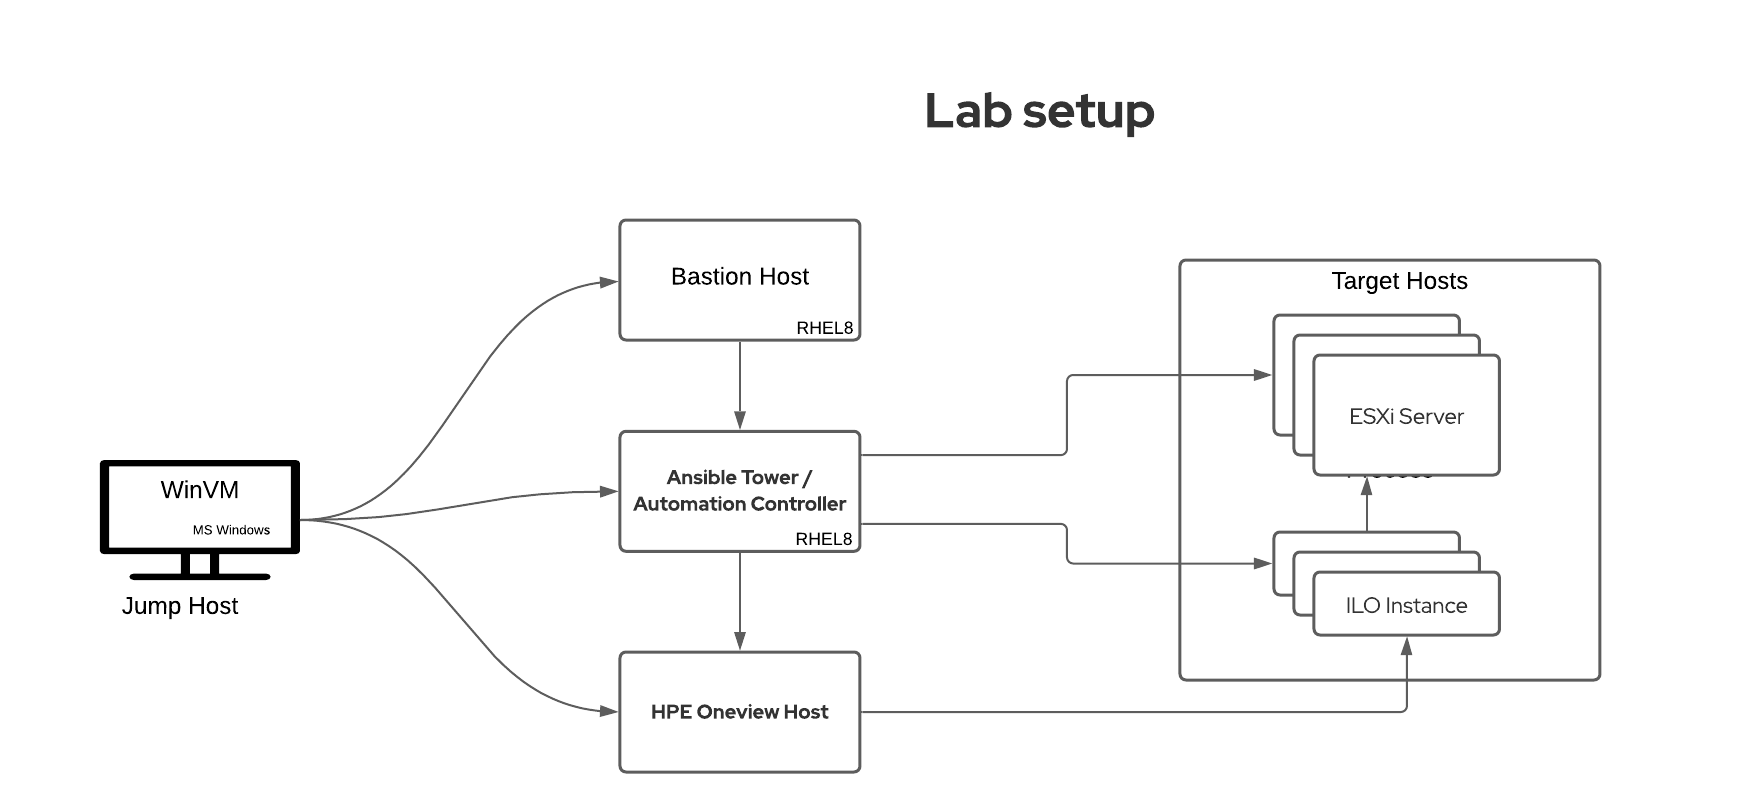
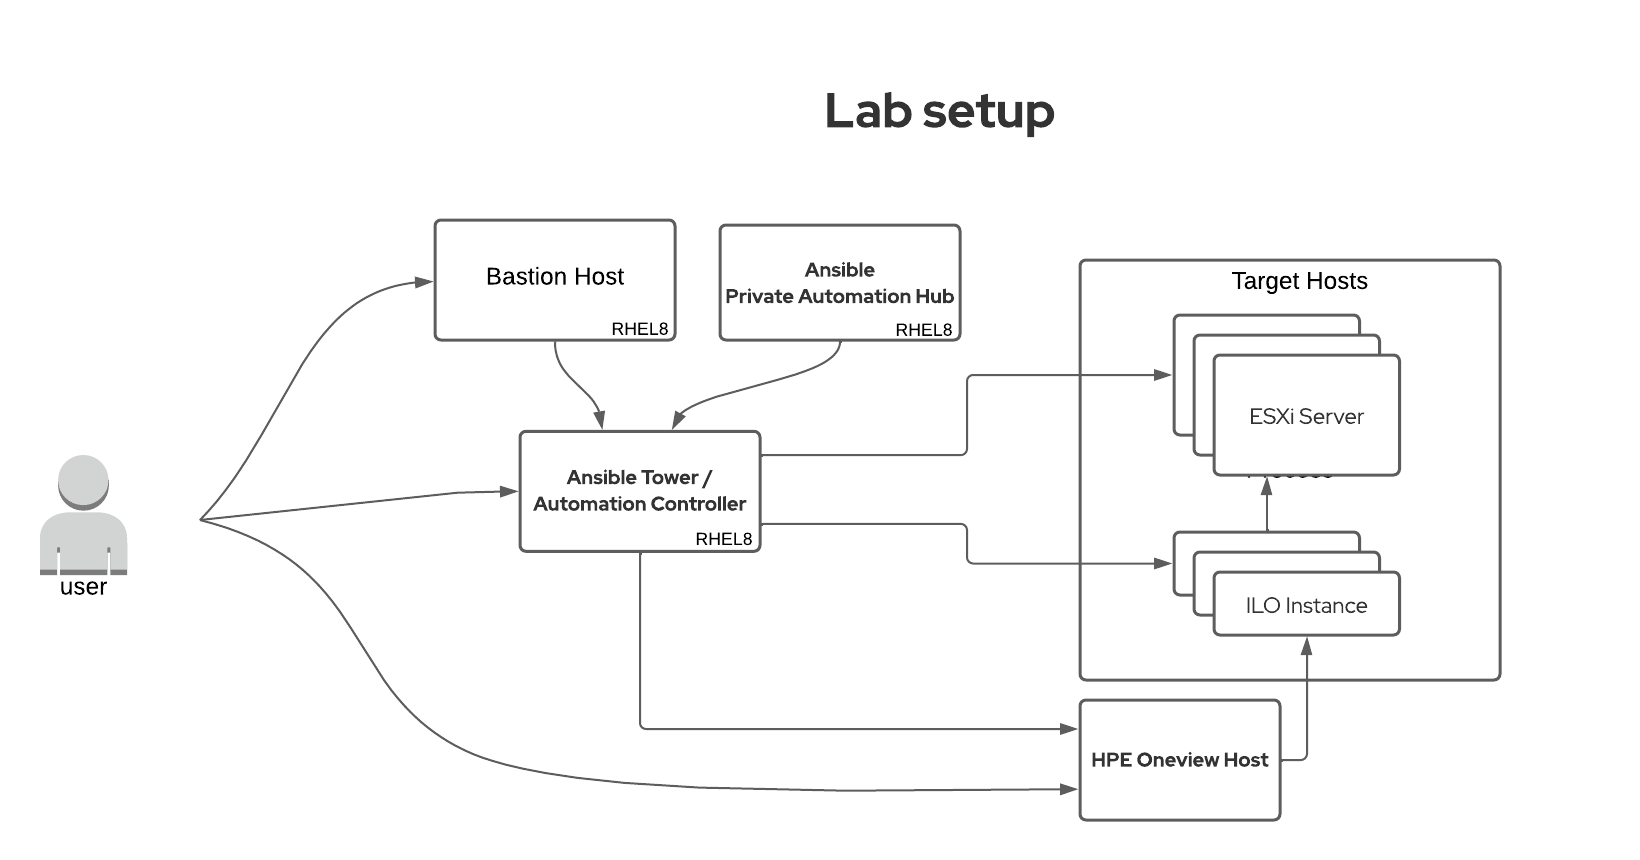
updating documentation - WIP

diff --git a/exercises/00_user_introduction.md b/exercises/00_user_introduction.md
@@ -21,37 +21,34 @@ We have 10 Lab environments available, each with has the below setup:
 ![ans-wksp-01](/images/ansible-workshop-illustration-05.png)
 
 ```
-    - Jump Host: a virtual machine running MS Windows.
-        Putty installed
+    - User: The user / the participant needs to connect to machines via ssh and via http / https. 
+        We can not grant that DNS will be working. So it is best to use IP-Adresses to connect.
+        If you have a Windows machine it is best to have Putty installed.
     - Automation Controller (formerly called Ansible Tower) : a virtual machine running RHEL 8, 
-        Automation Controller installed and subscribed
+        Automation Controller installed and subscribed.
+	It's the controlling node you will mostly work on.
+    - Automation Hub : a virtual machine running RHEL 8, 
+        With private Automation Hub installed and subscribed. It is used in AAP 2 environments to 
+        host the Execution Environment.
     - Bastion Host : a virtual machine running RHEL 8
         Webserver installed, genisoimage installed, ansible cmd-line tool available
-    - HPE Oneview host : an appliance running HPE Oneview shared with another team.
-    - Rack Mount Server with ILO Advanced License shared with another team.
-    
-    - Red Hat Automation Hub Credentials to pull content from Red Hat Cloud.
+    - HPE Oneview host : an appliance running HPE Oneview. Depending on setup this can be a shared 
+        OneView instance. Please only change your dedicated Server as you might break other labs.
+    - Server with ILO Advanced License 
+        If it's a rack mount server it needs to be added to OneView as a first deployment step.
+        If it's a Synergy Blade it is integrated into OneView and needs to be identified clearly.   
 ```
 
-- **Connect** : To reach the Lab please connect to the URL provided by your instructor. He will also share user credentials.
+- **Connect** : To reach the Lab please connect your VPN as sent to you via email.
     
-| Lab Credentials |                             |
-|-----------------|-----------------------------|
-| **LAB URL**     | Provided by Instructor      |
-| **Login**       | Provided by Instructor      |
-| **Password**    | Provided by Instructor      |
-    
+Review the presentation provided by the instructor to find the credentials and the target systems. 
+We provide a list with Hostnames and IP addresses somehow.
 
 Since the lab has no DNS server, IP-Addresses will be used instead of FQDNs. The Ansible inventory maps hostnames to IP addresses, those hostnames can only be used when running Ansible plays.<br>
-Please visit the **lab.html** file on your Desktop for **hosts**, **ip-addresses** and user **credentials**.
-
-- **Jump Host** : When connected to the Lab URL, you will land on MS Windows Desktop presented within your browser. It is used as a jump host to access the other systems and services related to the lab.<br>
-    You might experience issues with copy & paste from your own Personal computer to the MS Windows machine in the browser. A nice workaround can be achieved by creating an etherpad at: https://etherpad.opendev.org to share commands between both environments (2 step copy paste).<br>
-    It might also make sense to open this lab guide within your MS Windows Desktop environment, so that you can copy & paste directly.<br>
 
 
 - **Automation Controller** : The deployment will be managed from Automation Controller(Ansible Tower) via the Web-UI. So the Automation Controller will be the object of interest, where we concentrate on the most.<br>
-We have a RHEL 8 Server with Ansible Tower (AAP 1.2 / Tower Version 3.8) installed. RHEL and Tower are already subscribed and registered at cloud.redhat.com.<br><br>
+We have a RHEL 8 Server with Ansible Controller (formerly known as Tower) installed. Everything is installed and subscribed. Project, Jobs, Credentials, et all is set up and ready to perform the deployment tasks.<br><br>
 The Tower SW itself runs as user `awx`. You as administrator of that host can connect as user `ansible`. Most of the tasks to perform here will need `root` privileges.<br>
 We already created an **Organization** called `Handsonlabs Organization`. We recommend using this organization so that some predefined playbooks will not run into issues.
 
